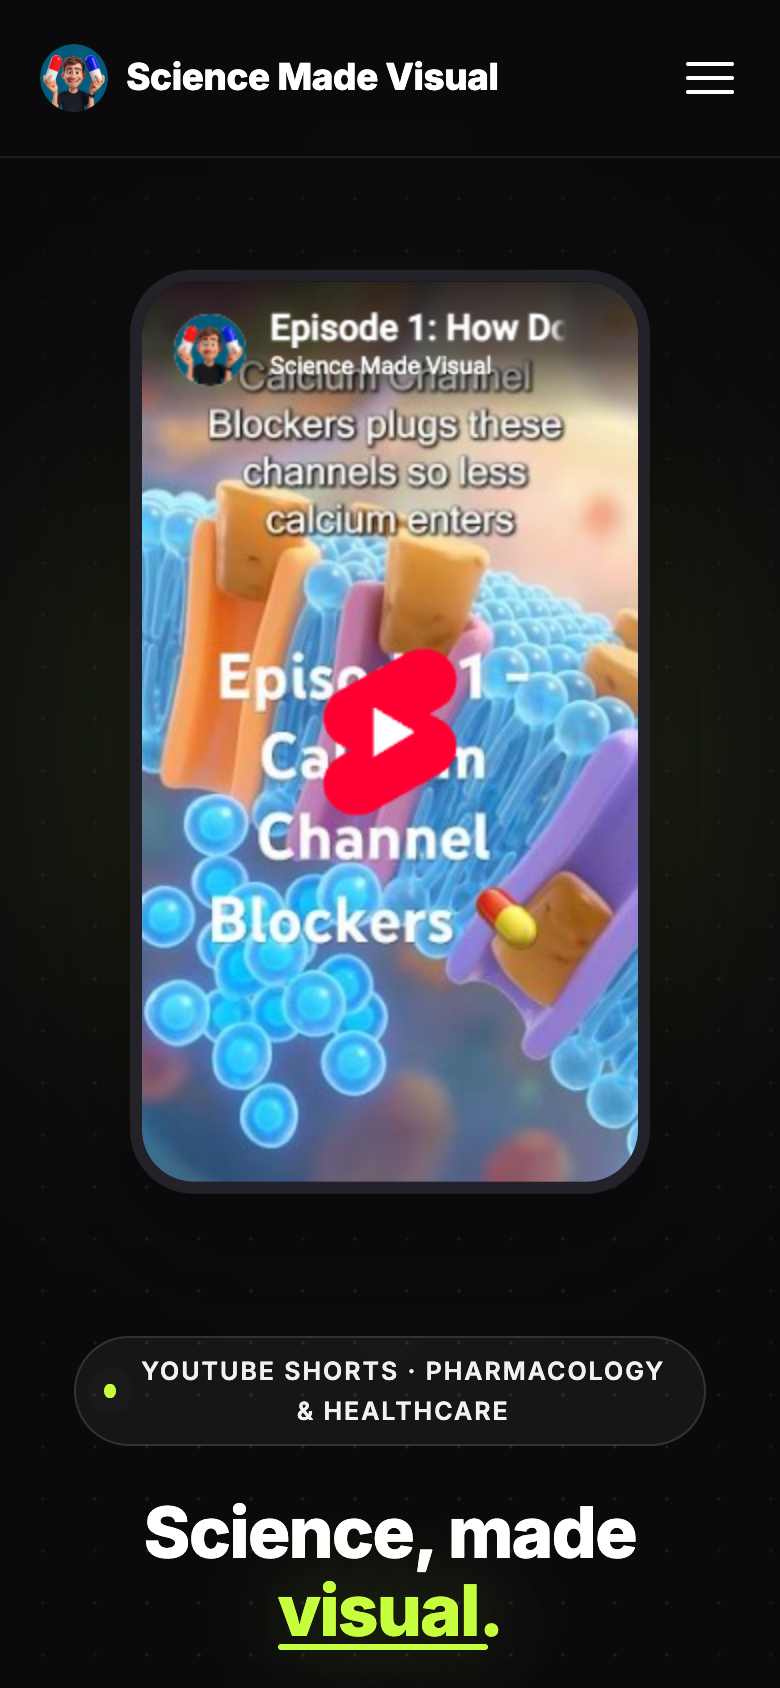
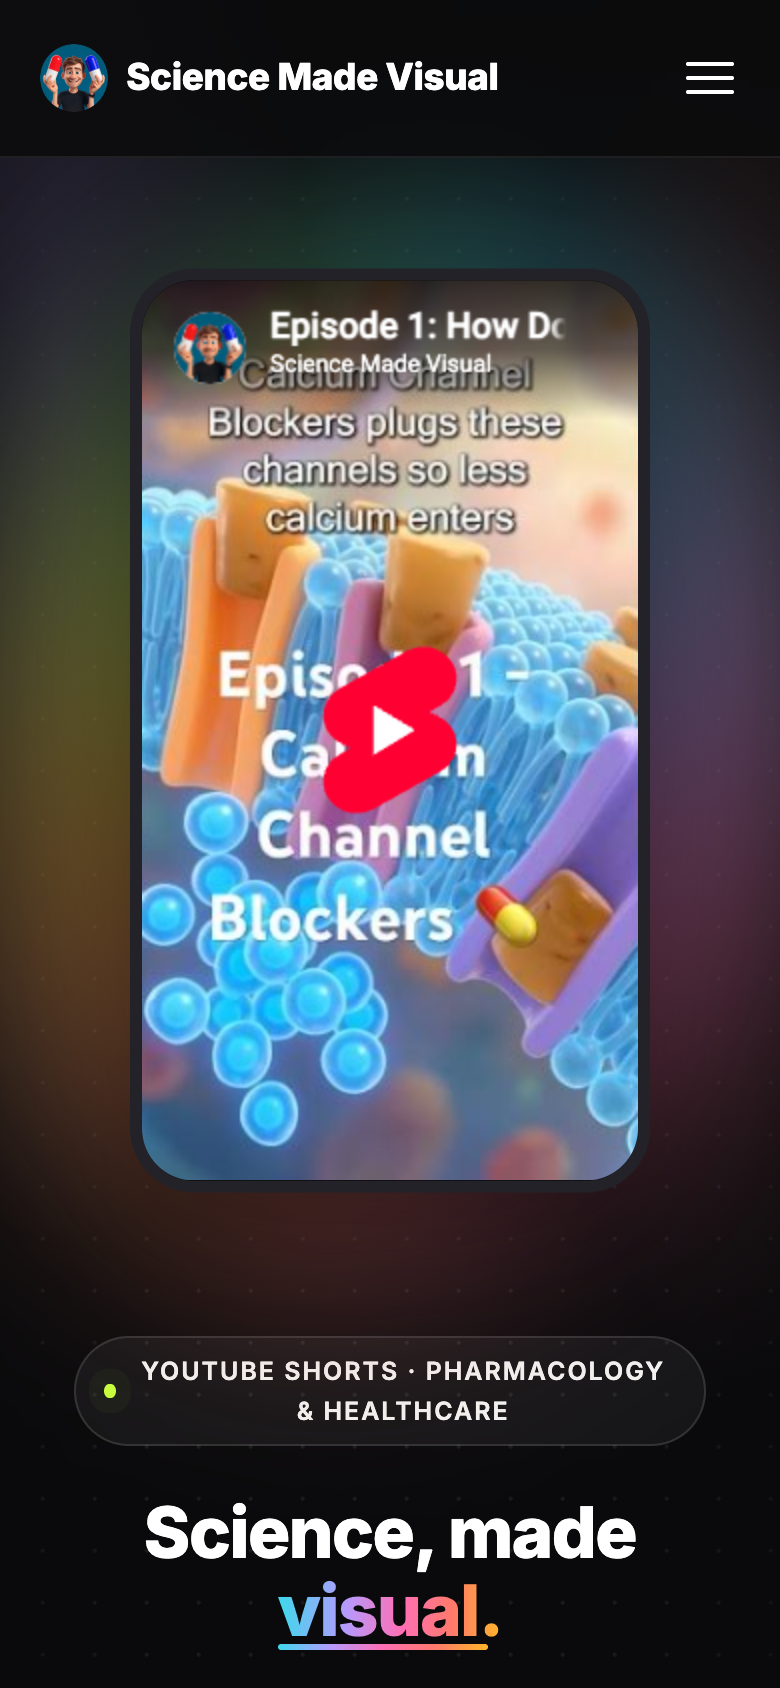
Topic colours and gliding filter transitions
- Each drug class has its own colour on filter pills, card tags and hover glows
- Hero headline word, underline and phone glow use the full topic spectrum
- Marquee dots cycle through the topic colours; lime stays the brand colour
- Filter changes now glide: leaving cards fade, staying cards slide, new
  cards fade in (vanilla FLIP, so YouTube embeds never reload)
- Refreshed docs/previews screenshots

diff --git a/index.html b/index.html
@@ -457,8 +457,61 @@
         transition-delay: calc(var(--i, 0) * 70ms);
       }
       .motion [data-reveal].in { opacity: 1; transform: none; }
-      .motion .short-card.pop { animation: pop .45s cubic-bezier(.2,.8,.2,1) both; animation-delay: calc(var(--i, 0) * 45ms); }
-      @keyframes pop { from { opacity: 0; transform: translateY(14px) scale(.97); } }
+    }
+
+    /* ══ TOPIC COLOURS ═════════════════════════════════════════
+       Each drug class has its own colour on its filter pill, card tag and
+       hover glow; lime stays the brand colour for buttons and the nav.
+       Every topic colour is 6:1+ as text on the graphite cards, and filled
+       pills use near-black text (7:1+). */
+    :root {
+      --t-cardio: #FF7A6B; --t-antibiotics: #3DD9EB; --t-metabolic: #FFB627;
+      --t-neuro: #B49BFF; --t-mental: #FF6FB5; --t-more: var(--accent); --t-leadership: #6CB4FF;
+    }
+    [data-topic="cardio"], [data-filter="cardio"] { --tc: var(--t-cardio); }
+    [data-topic="antibiotics"], [data-filter="antibiotics"] { --tc: var(--t-antibiotics); }
+    [data-topic="metabolic"], [data-filter="metabolic"] { --tc: var(--t-metabolic); }
+    [data-topic="neuro"], [data-filter="neuro"] { --tc: var(--t-neuro); }
+    [data-topic="mental"], [data-filter="mental"] { --tc: var(--t-mental); }
+    [data-topic="more"], [data-filter="more"] { --tc: var(--t-more); }
+    [data-topic="leadership"] { --tc: var(--t-leadership); }
+
+    [data-topic] .chip-accent { color: var(--tc); background: color-mix(in srgb, var(--tc) 12%, transparent); border-color: color-mix(in srgb, var(--tc) 38%, transparent); }
+    .short-card[data-topic]:hover { border-color: color-mix(in srgb, var(--tc) 60%, transparent); box-shadow: 0 18px 50px color-mix(in srgb, var(--tc) 20%, transparent); }
+    .short-card[data-topic]::after { background: radial-gradient(260px circle at var(--mx, 50%) var(--my, 30%), color-mix(in srgb, var(--tc) 18%, transparent), transparent 65%); }
+    .short-card[data-topic] .short-caption { transition: color .25s; }
+    .short-card[data-topic]:hover .short-caption { color: var(--white); }
+
+    .pill[data-filter]:not([data-filter="all"])::before { content: ''; width: 8px; height: 8px; border-radius: 50%; background: var(--tc); flex-shrink: 0; }
+    .pill[data-filter]:not([data-filter="all"]):hover { border-color: var(--tc); }
+    .pill[data-filter]:not([data-filter="all"])[aria-pressed="true"] { background: var(--tc); border-color: var(--tc); color: var(--dark-text); }
+    .pill[data-filter]:not([data-filter="all"])[aria-pressed="true"]::before { background: var(--dark-text); }
+
+    /* Hero: the headline word and phone glow carry the whole topic spectrum */
+    .hero-text h1 .gradient-text {
+      background: linear-gradient(90deg, var(--t-antibiotics), var(--t-neuro) 30%, var(--t-mental) 55%, var(--t-cardio) 78%, var(--t-metabolic));
+      -webkit-background-clip: text; background-clip: text; color: transparent; text-shadow: none;
+    }
+    .hero-text h1 .gradient-text::after { background: linear-gradient(90deg, var(--t-antibiotics), var(--t-neuro), var(--t-mental), var(--t-cardio), var(--t-metabolic)); }
+    #hero {
+      background:
+        radial-gradient(ellipse 45% 40% at 8% 12%, rgba(180,155,255,.16), transparent 70%),
+        radial-gradient(ellipse 40% 35% at 95% 20%, rgba(255,122,107,.12), transparent 70%),
+        radial-gradient(ellipse 70% 55% at 50% 115%, rgba(198,255,61,.18) 0%, rgba(198,255,61,.05) 45%, transparent 70%),
+        var(--bg);
+    }
+    .phone-glow { background: conic-gradient(from 0deg, var(--t-cardio), var(--t-metabolic), var(--accent), var(--t-antibiotics), var(--t-neuro), var(--t-mental), var(--t-cardio)); opacity: .42; border-radius: 50%; }
+
+    /* Marquee dots cycle through the topic colours */
+    .marquee-track li:nth-child(5n+1)::before { background: var(--t-cardio); }
+    .marquee-track li:nth-child(5n+2)::before { background: var(--t-antibiotics); }
+    .marquee-track li:nth-child(5n+3)::before { background: var(--t-metabolic); }
+    .marquee-track li:nth-child(5n+4)::before { background: var(--t-neuro); }
+    .marquee-track li:nth-child(5n)::before { background: var(--t-mental); }
+
+    @media (prefers-reduced-motion: no-preference) {
+      .motion .phone-glow { animation: spectrum 24s linear infinite; }
+      @keyframes spectrum { to { transform: rotate(360deg); } }
     }
   </style>
   <script>
@@ -780,7 +833,7 @@
     const el = document.getElementById(containerId);
     el.innerHTML = videos.map(v => {
       const ep = v.title.match(/^Episode (\d+)\s*·\s*/);
-      const topic = fixedTag ? { key: 'all', label: fixedTag } : topicFor(v.title);
+      const topic = fixedTag ? { key: fixedTag.toLowerCase(), label: fixedTag } : topicFor(v.title);
       return `
       <div class="short-card" data-topic="${topic.key}">
         <div class="short-video">
@@ -809,24 +862,48 @@
       <button type="button" class="pill" data-filter="${t.key}" aria-pressed="${t.key === 'all'}">
         ${t.label}<span class="pill-count">${t.key === 'all' ? cards.length : counts[t.key]}</span>
       </button>`).join('');
+    // Gliding filter (FLIP): leaving cards fade out, staying cards slide to
+    // their new slot, arriving cards fade in. Cards are hidden, never removed,
+    // so the YouTube embeds don't reload on every click.
+    const ease = 'cubic-bezier(.2,.8,.2,1)';
+    let run = 0;
     wrap.addEventListener('click', e => {
       const btn = e.target.closest('.pill');
       if (!btn) return;
       const key = btn.dataset.filter;
+      const matches = card => key === 'all' || card.dataset.topic === key;
+      const glide = document.documentElement.classList.contains('motion') && 'animate' in Element.prototype;
+      const token = ++run;
       wrap.querySelectorAll('.pill').forEach(p => p.setAttribute('aria-pressed', p === btn));
-      let shown = 0;
-      cards.forEach(card => {
-        const match = key === 'all' || card.dataset.topic === key;
-        card.hidden = !match;
-        card.classList.remove('pop');
-        if (match) {
-          card.removeAttribute('data-reveal');
-          card.style.setProperty('--i', shown++);
-          void card.offsetWidth; // restart the pop animation
-          card.classList.add('pop');
-        }
-      });
-      status.textContent = `Showing ${shown} of ${cards.length} explainers`;
+      cards.forEach(card => card.getAnimations().forEach(a => a.cancel()));
+      const before = new Map(cards.filter(c => !c.hidden).map(c => [c, c.getBoundingClientRect()]));
+      const leaving = glide ? cards.filter(c => !c.hidden && !matches(c)) : [];
+
+      const apply = () => {
+        if (token !== run) return; // a newer click took over
+        let arriving = 0;
+        cards.forEach(card => {
+          card.hidden = !matches(card);
+          if (!card.hidden) card.removeAttribute('data-reveal');
+        });
+        const shown = cards.filter(c => !c.hidden);
+        status.textContent = `Showing ${shown.length} of ${cards.length} explainers`;
+        if (!glide) return;
+        shown.forEach(card => {
+          const from = before.get(card), to = card.getBoundingClientRect();
+          if (from) {
+            const dx = from.left - to.left, dy = from.top - to.top;
+            if (dx || dy) card.animate([{ transform: `translate(${dx}px, ${dy}px)` }, { transform: 'none' }], { duration: 480, easing: ease });
+          } else {
+            card.animate([{ opacity: 0, transform: 'translateY(12px) scale(.95)' }, { opacity: 1, transform: 'none' }],
+              { duration: 380, delay: 60 * arriving++, easing: ease, fill: 'backwards' });
+          }
+        });
+      };
+      if (leaving.length) {
+        Promise.all(leaving.map(c => c.animate([{ opacity: 1, transform: 'none' }, { opacity: 0, transform: 'scale(.94)' }],
+          { duration: 170, easing: 'ease-in', fill: 'forwards' }).finished.catch(() => {}))).then(apply);
+      } else apply();
     });
   }
   renderFilters();
